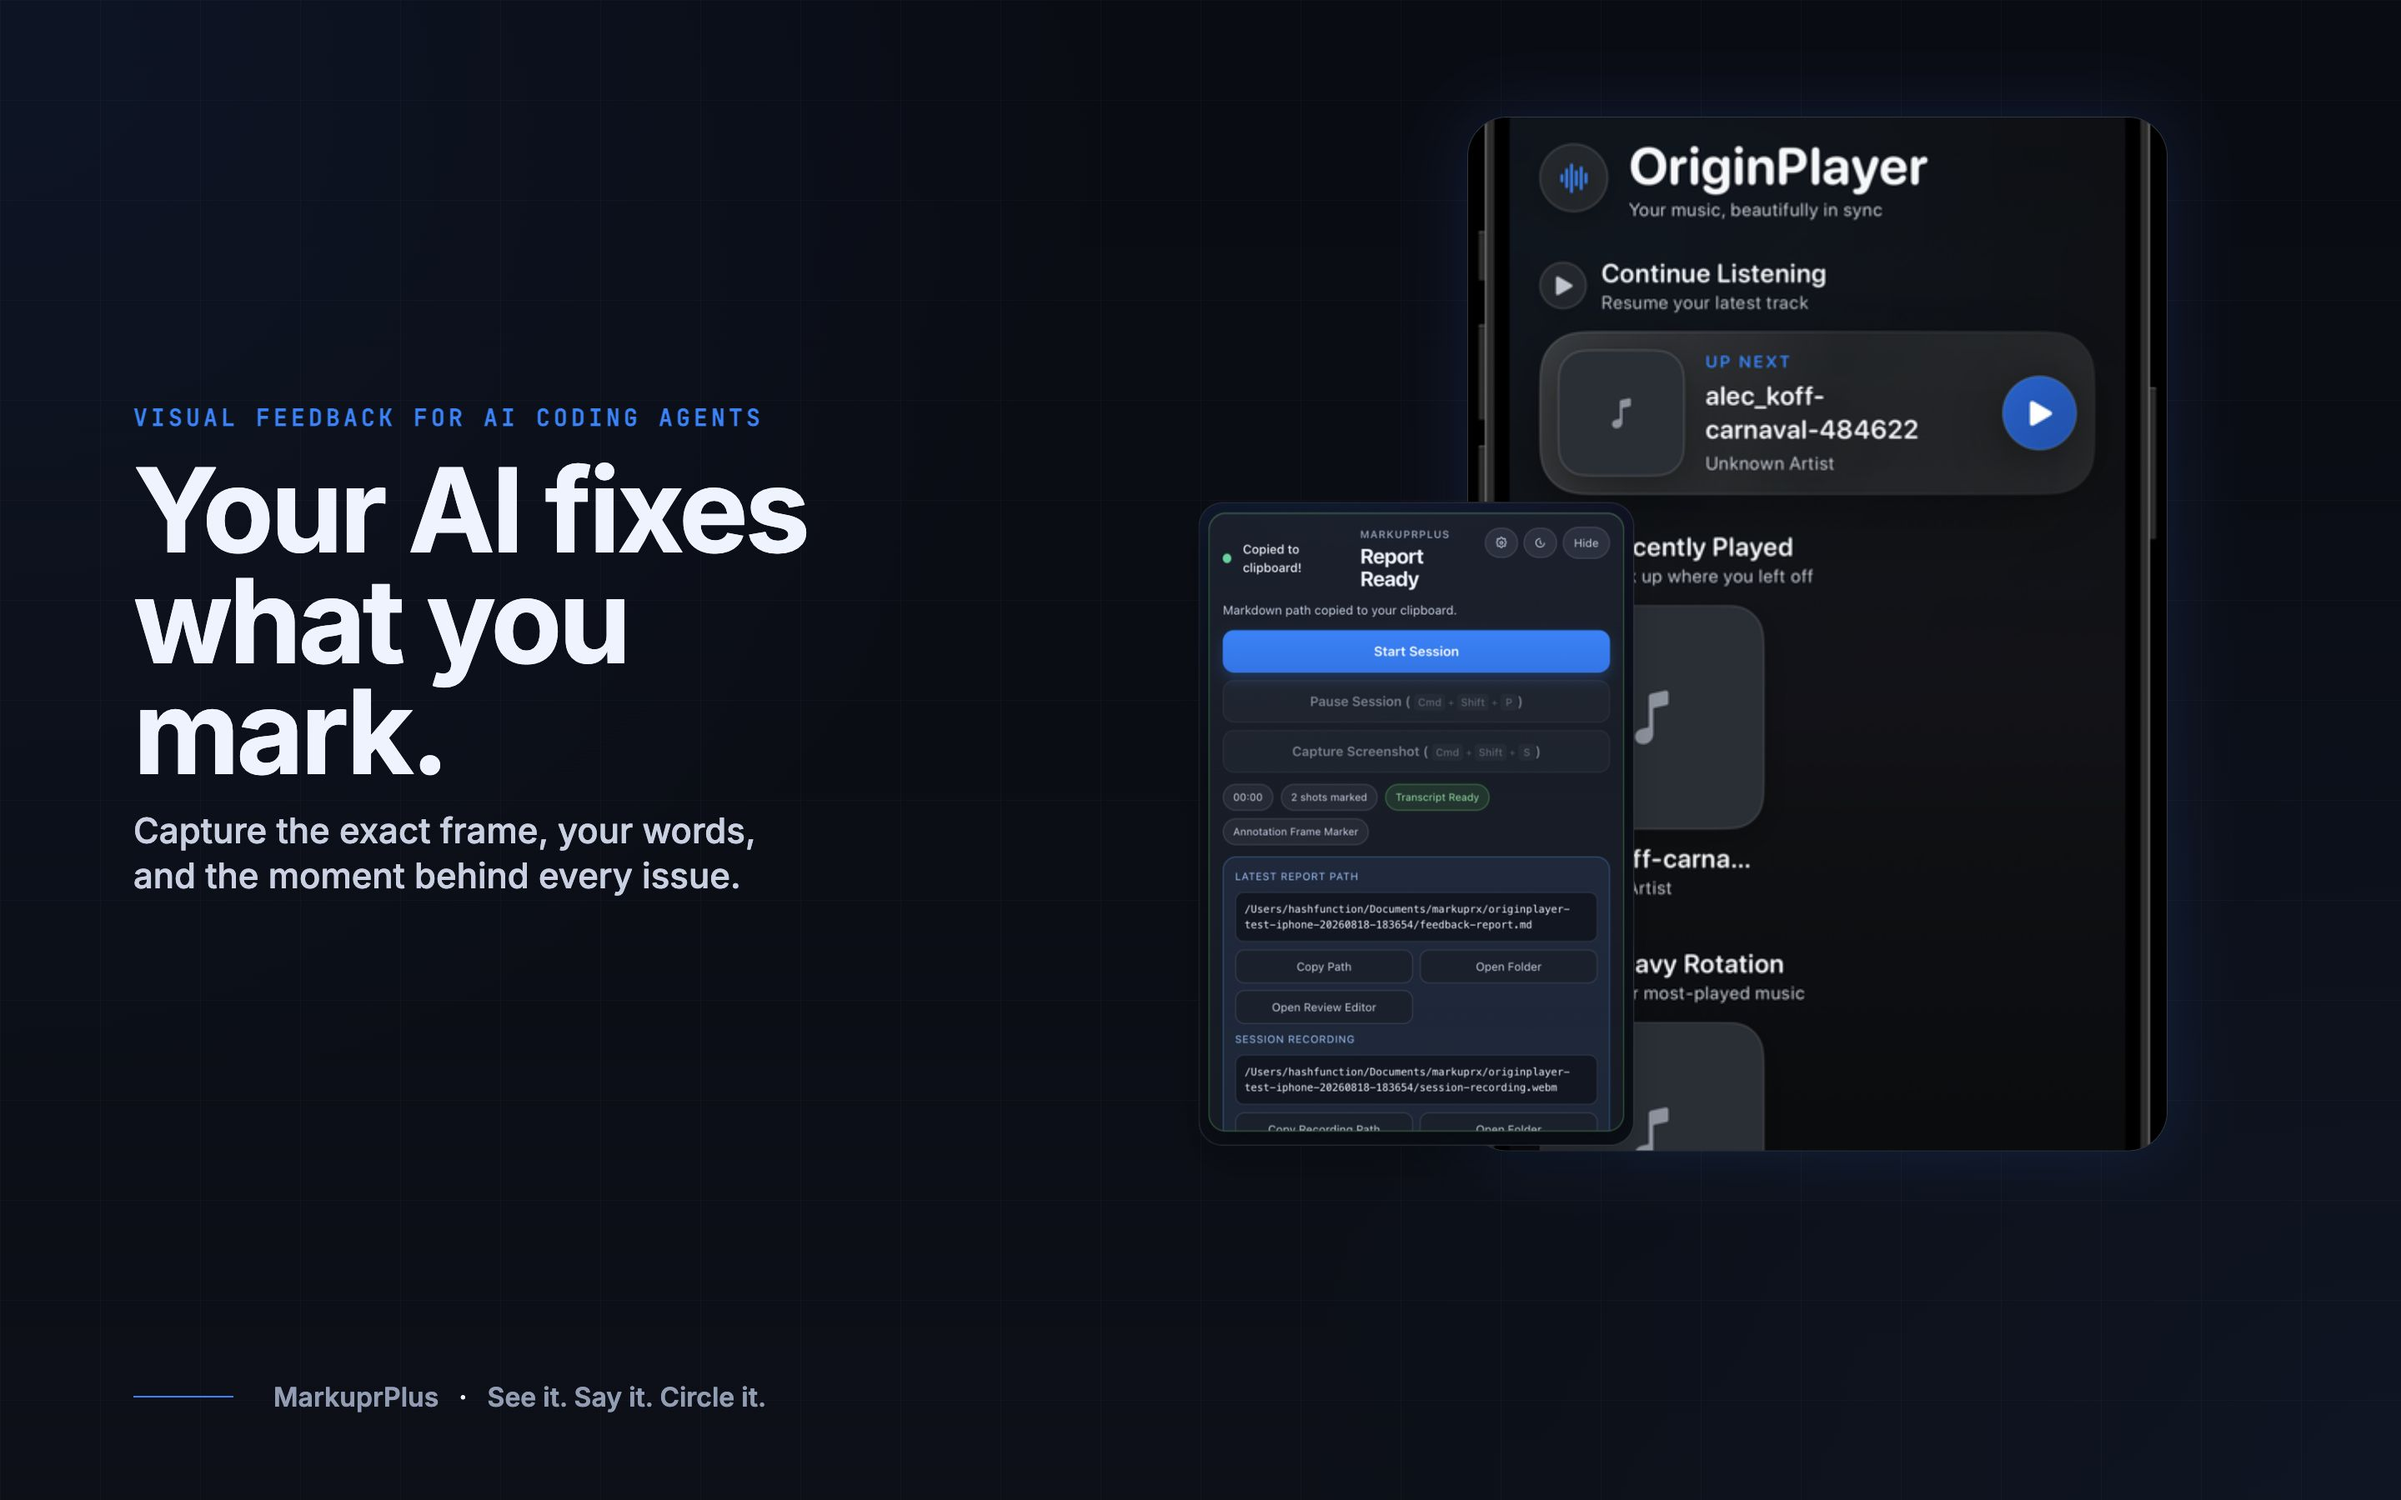
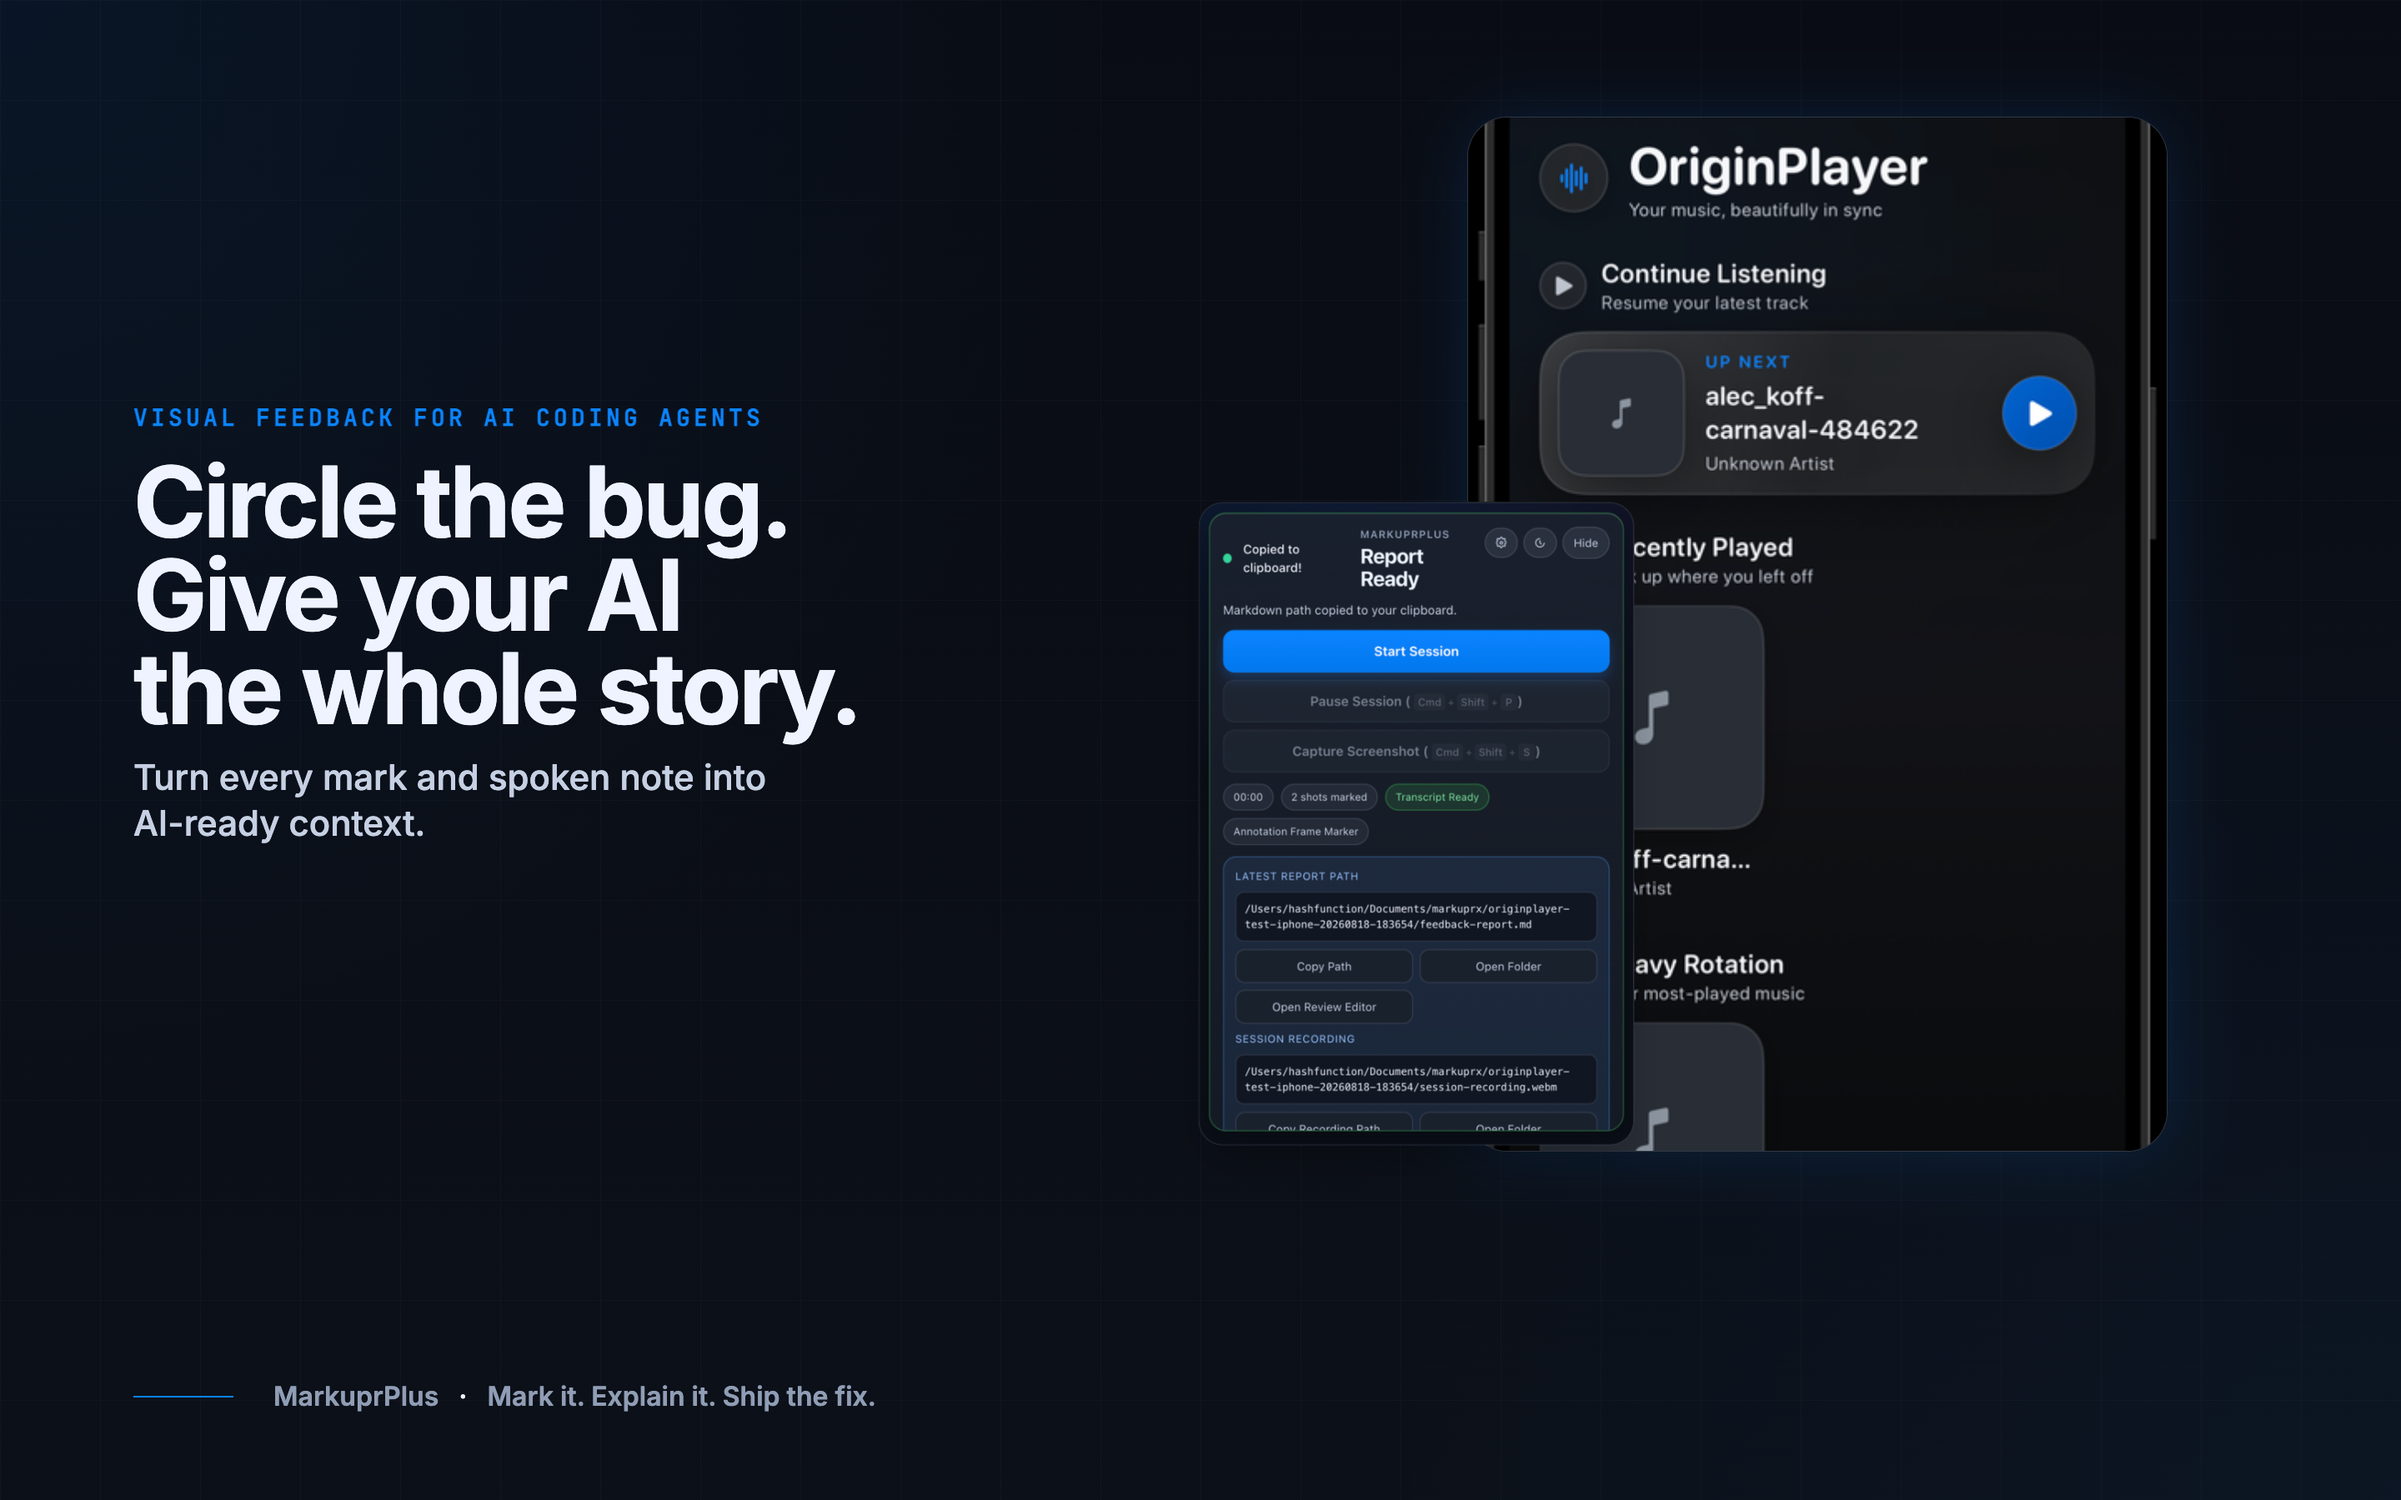
feat: add Mac App Store launch assets

diff --git a/tests/unit/masIconGeneration.test.ts b/tests/unit/masIconGeneration.test.ts
@@ -1,0 +1,56 @@
+import { mkdtemp, readdir, rm, stat } from 'node:fs/promises';
+import { join } from 'node:path';
+import { tmpdir } from 'node:os';
+import { afterEach, describe, expect, it, vi } from 'vitest';
+import sharp from 'sharp';
+import { generateMasIconAssets } from '../../scripts/generate-mas-icons.mjs';
+
+vi.unmock('sharp');
+
+const temporaryDirectories: string[] = [];
+
+afterEach(async () => {
+  await Promise.all(temporaryDirectories.splice(0).map((path) => (
+    rm(path, { recursive: true, force: true })
+  )));
+});
+
+describe('Mac App Store icon generation', () => {
+  it('creates a complete macOS iconset and ICNS bundle from the approved master', async () => {
+    const outputRoot = await mkdtemp(join(tmpdir(), 'markuprplus-mas-icon-'));
+    temporaryDirectories.push(outputRoot);
+    const iconsetDirectory = join(outputRoot, 'MarkuprPlus.iconset');
+    const icnsPath = join(outputRoot, 'MarkuprPlus.icns');
+
+    await generateMasIconAssets({
+      sourcePath: 'app-store/assets/markuprplus-mas-icon-master.png',
+      iconsetDirectory,
+      icnsPath,
+    });
+
+    const expectedSizes = new Map([
+      ['icon_16x16.png', 16],
+      ['icon_16x16@2x.png', 32],
+      ['icon_32x32.png', 32],
+      ['icon_32x32@2x.png', 64],
+      ['icon_128x128.png', 128],
+      ['icon_128x128@2x.png', 256],
+      ['icon_256x256.png', 256],
+      ['icon_256x256@2x.png', 512],
+      ['icon_512x512.png', 512],
+      ['icon_512x512@2x.png', 1024],
+    ]);
+
+    expect((await readdir(iconsetDirectory)).sort()).toEqual(
+      [...expectedSizes.keys()].sort(),
+    );
+    for (const [name, size] of expectedSizes) {
+      const metadata = await sharp(join(iconsetDirectory, name)).metadata();
+      expect({ width: metadata.width, height: metadata.height }).toEqual({
+        width: size,
+        height: size,
+      });
+    }
+    expect((await stat(icnsPath)).size).toBeGreaterThan(0);
+  });
+});

diff --git a/app-store/screenshots/source/01-ai-fixes-what-you-mark.html b/app-store/screenshots/source/01-ai-fixes-what-you-mark.html
@@ -43,8 +43,8 @@
         <div class="absolute left-[160px] top-[480px] w-[960px] flex flex-col gap-10" data-sd-id="3">
             <div class="flex flex-col gap-6" data-sd-id="4">
                 <p class="text-[#0a84ff] font-semibold text-[28px] tracking-[0.15em] uppercase mono" data-sd-id="5">VISUAL FEEDBACK FOR AI CODING AGENTS</p>
-                <h1 class="text-[140px] font-bold leading-[0.95] tracking-[-0.03em] text-[#eef3ff]" data-sd-id="6">Your AI fixes<br>what you mark.</h1>
-                <p class="text-[#c6d0e3] text-[42px] leading-[1.3] max-w-[800px] font-medium" data-sd-id="7">Capture the exact frame, your words, and the moment behind every issue.</p>
+                <h1 class="text-[118px] font-bold leading-[0.95] tracking-[-0.03em] text-[#eef3ff]" data-sd-id="6">Circle the bug.<br>Give your AI<br>the whole story.</h1>
+                <p class="text-[#c6d0e3] text-[42px] leading-[1.3] max-w-[820px] font-medium" data-sd-id="7">Turn every mark and spoken note into AI-ready context.</p>
             </div>
         </div>
         <div class="absolute right-[-100px] top-[140px] w-[1600px] h-[1400px]" data-sd-id="8">
@@ -55,7 +55,7 @@
         </div>
         <div class="absolute bottom-[100px] left-[160px] flex items-center gap-12" data-sd-id="24">
             <div class="h-[2px] w-[120px] bg-[#0a84ff]" data-sd-id="25"></div>
-            <p class="text-[32px] font-semibold text-[#8f9db5]" data-sd-id="26">MarkuprPlus <span class="text-[#eef3ff] mx-4" data-sd-id="27">·</span> See it. Say it. Circle it.</p>
+            <p class="text-[32px] font-semibold text-[#8f9db5]" data-sd-id="26">MarkuprPlus <span class="text-[#eef3ff] mx-4" data-sd-id="27">·</span> Mark it. Explain it. Ship the fix.</p>
         </div>
     </div>
 </body>

diff --git a/app-store/screenshots/source/02-one-mark-one-issue.html b/app-store/screenshots/source/02-one-mark-one-issue.html
@@ -45,7 +45,7 @@
         <div class="absolute inset-0 bg-[radial-gradient(circle_at_20%_20%,rgba(10,132,255,0.1),transparent_40%),radial-gradient(circle_at_80%_80%,rgba(94,106,240,0.08),transparent_50%)] z-0" data-sd-id="3"></div>
         <div class="w-[38%] h-full flex flex-col justify-center px-[160px] relative z-10" data-sd-id="4">
             <div class="mb-8" data-sd-id="5"><span class="text-[28px] font-semibold tracking-[0.2em] text-[#8f9db5] uppercase" data-sd-id="6">EVIDENCE, NOT JUST FOOTAGE</span></div>
-            <h1 class="text-[110px] font-bold leading-[0.95] tracking-tighter mb-10 text-[#eef3ff]" data-sd-id="7">One mark.<br>One actionable issue.</h1>
+            <h1 class="text-[110px] font-bold leading-[0.95] tracking-tighter mb-10 text-[#eef3ff]" data-sd-id="7">One mark.<br>One AI-ready issue.</h1>
             <p class="text-[42px] leading-tight text-[#c6d0e3] font-medium max-w-[700px]" data-sd-id="8">Every circle gets its own annotated frame, timestamp, and narration.</p>
             <div class="mt-auto mb-20" data-sd-id="9">
                 <div class="flex items-center gap-6" data-sd-id="10">

diff --git a/app-store/privacy-answers.md b/app-store/privacy-answers.md
@@ -8,10 +8,13 @@ These answers describe the sandboxed Mac App Store build. Reconfirm them against
 - Data used for third-party advertising: No.
 - Developer-operated analytics or telemetry: No.
 - MarkuprPlus account or user identity collection: No.
-- Data collected by Trieflow LLC from the app: None.
+- Data received or stored by Trieflow LLC from the app: None.
 - User content stored by Trieflow LLC: None.
+- App Store privacy data types: Photos or Videos and Other User Content.
+- Purpose: App Functionality only.
+- Linked to the user's identity: Yes, conservatively, because optional Anthropic API analysis uses the user's own provider API key and Anthropic retains API inputs and outputs under its then-current commercial retention policy.
 
-Recordings, narration, screenshots, transcripts, reports, preferences, and API keys are processed and stored on the user's Mac. When a user explicitly selects an optional third-party cloud provider, the app sends the material required for that user-requested provider operation directly to the provider. Trieflow LLC does not receive that material. Confirm App Store Connect's then-current definition of “collection” when entering the questionnaire; if Apple treats direct third-party transmission as collected data, disclose the applicable User Content and Audio categories for optional functionality.
+Recordings, narration, screenshots, transcripts, reports, preferences, and API keys are processed and stored on the user's Mac. When a user explicitly selects Anthropic API analysis, the app sends the transcript and selected screenshots directly to Anthropic using the user's own key; Trieflow LLC does not receive that material. The App Store label therefore conservatively discloses Photos or Videos and Other User Content as Data Linked to You and used for App Functionality. OpenAI audio transcription currently has no abuse-monitoring or application-state retention according to OpenAI's endpoint-specific data-controls documentation, so Audio Data is not listed as collected under Apple's current definition. Reconfirm both providers' retention policies before each submission.
 
 ## Permissions
 

diff --git a/app-store/metadata/en-US.md b/app-store/metadata/en-US.md
@@ -7,15 +7,15 @@ MarkuprPlus
 Visual feedback for AI agents
 
 ## Promotional Text
-See it, say it, circle it—and hand your coding agent a structured report with the exact frame and words behind every issue.
+Circle the bug. Give your AI the whole story. MarkuprPlus turns each mark and spoken note into a structured issue with the exact frame and moment.
 
 ## Keywords
-bug report,screen record,transcribe,developer,markdown,screenshot,voice,QA,code review,annotation
+bug report,screen recorder,AI feedback,annotation,transcription,Markdown,QA,code review,screenshot
 
 ## Description
-Turn what you see into feedback your AI coding agents can act on.
+Circle the bug. Give your AI the whole story.
 
-MarkuprPlus lives in your menu bar. Pick a window, region, or display, talk through what is wrong, and mark the screen while you test. When you stop, MarkuprPlus creates a structured report with the exact frame and narration behind every finding—ready for Codex, Claude Code, Cursor, and any agent that can read Markdown.
+MarkuprPlus turns visual feedback into structured context for AI coding agents. Pick a window, region, or display, talk through what is wrong, and mark the screen while you test. When you stop, every finding has the exact frame, timestamp, and narration behind it—ready for Codex, Claude Code, Cursor, or any agent that reads Markdown.
 
 ONE MARK, ONE ACTIONABLE ISSUE
 
@@ -43,7 +43,7 @@ No MarkuprPlus account. No developer-operated telemetry. Recordings, audio, scre
 
 PAID IN THE APP STORE, FREE ON GITHUB
 
-The $9.99 Mac App Store edition provides convenient Apple-managed installation and updates while supporting continued development. MarkuprPlus remains MIT-licensed and the free direct-download edition remains available on GitHub.
+The paid Mac App Store edition provides convenient Apple-managed installation and updates while supporting continued development. MarkuprPlus remains MIT-licensed, and the free direct-download edition remains available on GitHub.
 
 ## Marketing URL
 https://markuprplus.com

diff --git a/app-store/screenshots/README.md b/app-store/screenshots/README.md
@@ -2,8 +2,8 @@
 
 Five 2880×1800 PNGs are ready for the macOS App Store listing. The sequence leads with MarkuprPlus's AI-agent workflow and shows only capabilities available in the sandboxed Store edition.
 
-1. `01-ai-fixes-what-you-mark.png` — capture and agent-ready report workflow
-2. `02-one-mark-one-issue.png` — annotated evidence and structured Markdown
+1. `01-ai-fixes-what-you-mark.png` — hook: circle the bug and give AI the whole story
+2. `02-one-mark-one-issue.png` — one mark becomes one AI-ready issue
 3. `03-talk-through-bugs.png` — narration and on-device Whisper transcription
 4. `04-choose-ai-analysis.png` — Ollama, LM Studio, Anthropic API, and Local Rules
 5. `05-local-control.png` — local-first storage and user-selected exports

diff --git a/app-store/review-notes.md b/app-store/review-notes.md
@@ -24,4 +24,4 @@ Capture artifacts are stored locally in the app's sandbox or a user-selected exp
 
 ## Paid and open-source editions
 
-This $9.99 App Store edition is sold for convenient Apple-managed installation and updates and to support development. A free MIT-licensed direct-download edition remains available at https://github.com/hashfunction/MarkuprPlus. The two distributions are clearly disclosed in the listing.
+This paid App Store edition is sold for convenient Apple-managed installation and updates and to support development. A free MIT-licensed direct-download edition remains available at https://github.com/hashfunction/MarkuprPlus. The two distributions are clearly disclosed in the listing.
